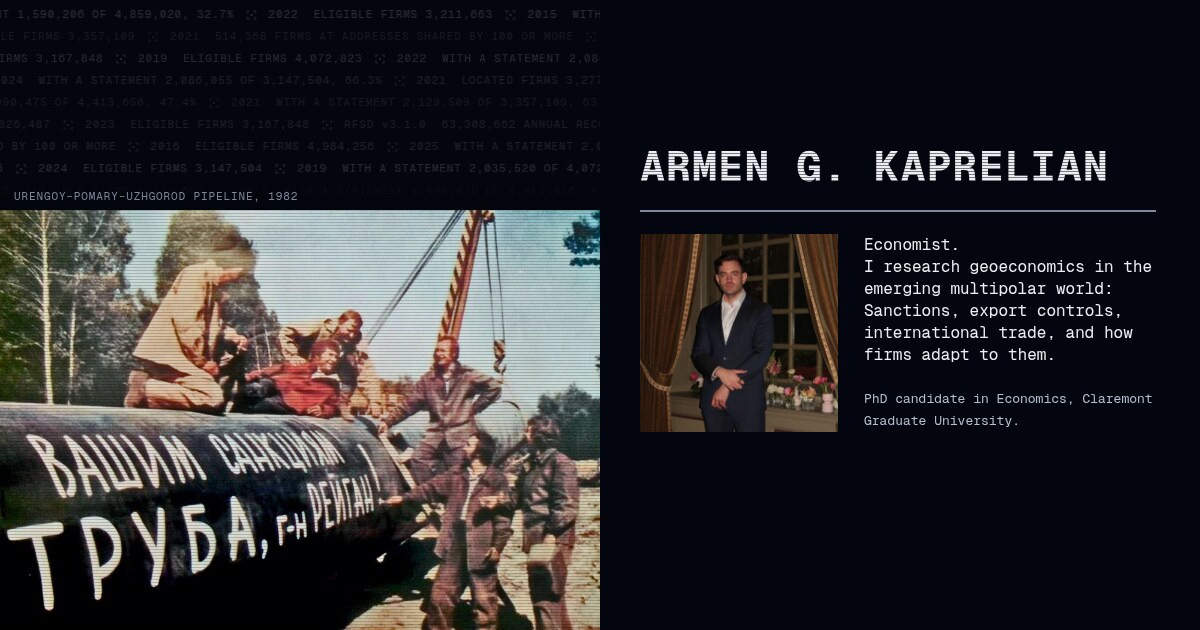
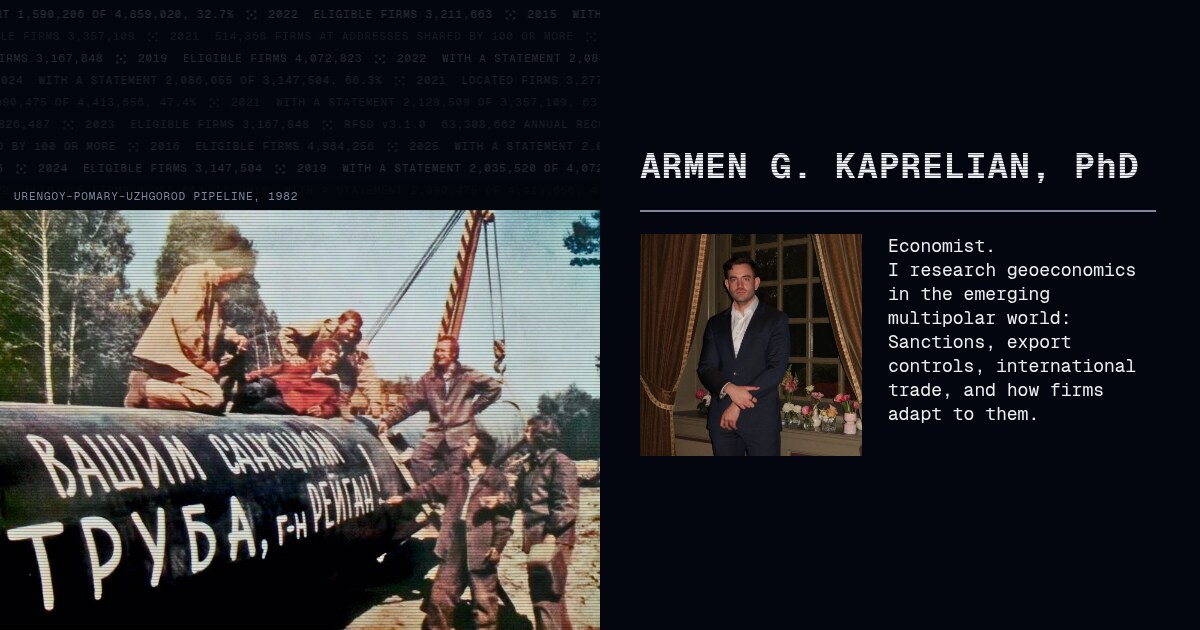
Update homepage and résumé after the dissertation defense

Changed region(s): [[0.5242, 0.3619, 0.9558, 0.7238], [0.5242, 0.2413, 0.9558, 0.3016], [0.925, 0.6333, 0.9558, 0.6635]]

diff --git a/css/site.css b/css/site.css
@@ -102,30 +102,34 @@ hr { border: 0; height: 2px; margin: 0; background: var(--dim); }
    more than the window leaves above the band, the index's row gives it up and its rows compress, so no window overflows and no rule
    reserves a height for a wording (round 33, 2 November 2026; the 330 and 352 px reservations and the small-laptop rule went with it). */
 .content { display: grid; grid-template-rows: 1fr minmax(0, var(--band)); height: 100vh; height: 100dvh; }   /* a definite height, so the band's row can give room to the top block */
-.content .top { --shot: 198px; padding: 26px max(44px, var(--safe-r)) 16px 40px; }   /* 16 px under the bio, so the index's rule never touches it where the band yields; with the 140 px the headshot formula leaves, the band keeps its height on windows that have the room (round 34) */
-@supports (height: 100dvh) and (width: 1cqw) {   /* the headshot's width: the height left above the band, at most half the column's width (the author's pick of 29 October 2026) */
-  .content .top { --shot: clamp(132px, min(100dvh - var(--band) - 140px, (50cqw - 84px) * .5), 572px); }
+/* The headshot uses its native square frame at every width. Above the split-screen
+   navigation it grows into the available height, leaving room for the title and rules. */
+.content .top {
+  --shot: 198px;
+  padding: 26px max(44px, var(--safe-r)) 16px 40px;
 }
-.content h1 { margin: 0 0 22px; font-size: 46px; line-height: 44px; font-weight: 700; letter-spacing: .02em; text-transform: uppercase; }
+@supports (height: 100dvh) and (width: 1cqw) {
+  .content .top { --shot: clamp(132px, min(100dvh - var(--band) - 134px, (50cqw - 84px) * .45), 420px); }
+}
+.content h1 {
+  margin: 0 0 22px;
+  font-size: clamp(30px, 3.5vw - 6px, 46px);
+  line-height: 1;
+  font-weight: 700;
+  letter-spacing: .02em;
+  text-transform: uppercase;
+}
+.content .degree { text-transform: none; }
 .content .top hr { margin: 0 0 20px; }
-.content .id { display: grid; grid-template-columns: var(--shot) minmax(0, 1fr); column-gap: 26px; align-items: start; }
-.content .portrait { display: block; width: var(--shot); height: 100%; min-height: var(--shot); max-height: calc(var(--shot) * 1.6); object-fit: cover; }   /* as tall as the text beside it: square where the text is short, cropped taller where it is long, at most 1.6 times its width (round 33) */
-.content .lede { color: var(--muted); }
-.content .lede p { margin: 0; font-size: 13px; line-height: 22px; text-wrap: pretty; }   /* pretty: no last line of one word where the browser supports it */
-.content .lede .lead { margin-bottom: 22px; font-size: 16px; color: var(--ink); }
-.content .lede { position: relative; top: -4px; }   /* the statement's capitals on the headshot's top edge: a shift of the glyphs only */
-.content .lede .dis { display: block; }   /* the dissertation on its own line, under the degree */
-/* The split layout (round 33, 2 November 2026): the bio's type follows the headshot's width, so the block keeps its proportions on every
-   laptop and desktop window: the statement at 0.062 of the headshot's width (16 px beside a 256 px headshot, 23 px beside 372), the
-   credentials at 0.05, each with its line pitch and the gap between them scaled alike (22 px at the floor). The ratio is set so the bio
-   is a little taller than the headshot is wide, and the headshot's frame follows it, so the two end together. The floors are the sizes
-   of 1 November; the ceilings keep a desktop window readable. */
-@media (min-width: 1200px) and (min-height: 600px) {
-  .content .top { --f: clamp(16px, var(--shot) * .062, 26px); --g: clamp(13px, var(--shot) * .05, 21px); }
-  .content .lede { top: calc(var(--f) * -.25); max-width: max(var(--shot) * 1.4, (258px - var(--shot)) * 10000); }   /* the measure: 1.4 headshots (37 characters) while the type follows the headshot, which keeps the bio as tall as the headshot is wide on a wide column; below a 258 px headshot the type is at its floor and the bio takes the column (the second term is then thousands of px) */
-  .content .lede p { font-size: var(--g); line-height: 1.6923; }
-  .content .lede .lead { margin-bottom: 1.375em; font-size: var(--f); line-height: 1.375; }
+.content .id { display: grid; grid-template-columns: var(--shot) minmax(0, 1fr); gap: 26px; align-items: start; }
+.content .portrait { display: block; width: 100%; height: auto; aspect-ratio: 1; }
+.content .lede {
+  font-size: clamp(16px, var(--shot) * .082, 25px);
+  line-height: 1.375;
+  margin-top: -.23em;
 }
+.content .lede p { margin: 0; max-width: 31ch; text-wrap: pretty; }
+.content .lede .role { display: block; margin-bottom: .42em; }
 .nb { white-space: nowrap; }
 
 /* The index: seven rows, each a number, the page and a dim note of what it opens; the whole row is the link. */
@@ -182,13 +186,13 @@ hr { border: 0; height: 2px; margin: 0; background: var(--dim); }
 @media (max-width: 1199px), (max-height: 599px) {
   .home { display: flex; flex-direction: column; }
   .content { order: -1; display: block; height: auto; max-width: 820px; }
-  .content .top { --shot: 160px; padding: 14px max(16px, var(--safe-r)) 0 max(16px, var(--safe-l)); }
-  @supports (width: round(down, 10px, 1px)) and (width: 1cqw) { .content .top { --shot: clamp(110px, round(down, (min(100cqw, 820px) - 32px) * .43, 2px), 286px); } }   /* 0.43 of the column, at most 286 px on tablets */
-  .content h1 { margin-bottom: 14px; font-size: 30px; }
-  .content .id { column-gap: 16px; }
-  .content .lede { display: contents; }
-  .content .lede .lead { grid-column: 2; grid-row: 1; margin: 0; font-size: 15px; position: relative; top: -5px; }   /* the capitals on the headshot's top edge */
-  .content .lede .lead + p { grid-column: 1 / -1; grid-row: 2; margin-top: 22px; }
+  .content .top {
+    --shot: clamp(104px, 40vw - 8px, 240px);
+    padding: 14px max(16px, var(--safe-r)) 0 max(16px, var(--safe-l));
+  }
+  .content h1 { margin-bottom: 14px; font-size: clamp(20px, 6.85vw - 2px, 30px); line-height: 1.15; }
+  .content .id { gap: clamp(14px, 3.5vw, 26px); }
+  .content .lede { font-size: clamp(15px, var(--shot) * .09, 22px); }
   .index { grid-auto-rows: 60px; padding: 22px max(16px, var(--safe-r)) 30px max(16px, var(--safe-l)); }
   .index a { grid-template-columns: auto minmax(0, 1fr); align-content: center; }
   .index .n { grid-row: 1; font-size: 18px; }   /* on the page name's line, at its size */
@@ -206,26 +210,15 @@ hr { border: 0; height: 2px; margin: 0; background: var(--dim); }
   .page { padding: 14px max(16px, var(--safe-r)) max(40px, calc(var(--safe-b) + 24px)) max(16px, var(--safe-l)); }
   .page h1 { font-size: 30px; }
   .film .chapters button { padding: 5px 0; }   /* taller rows for a finger */
-  /* The home page's top block as a card (round 33, the author's request of 2 November 2026, after a phone that scales text by about 1.13 ran the
-     statement's last line under the headshot, and his rule against dead space). Beside the headshot sit the lines that identify him, "Economist.",
-     the degree and the dissertation, and the headshot is as tall as they are: its box takes the rows they fill and crops the square picture to
-     a taller frame (object-fit: cover, at most 1.6 times its width; beyond that, at a text scale over about 1.4, the lines run on below it),
-     so no line falls under the picture and no space stands beside it, at any text scale. The statement runs below at the column's full width,
-     where no line is short. The four pieces are spans in the two paragraphs (display: contents), placed by the grid; the laptop and tablet
-     layouts read the same markup in its own order. The headshot takes 0.40 of the column. The name takes 7 percent of the screen's width, one
-     line at 360 px and up unless the text is scaled more than a sixth. (The runaround of 1 November 2026 is retired.) */
-  .content .top { --shot: 150px; }
-  @supports (width: round(down, 10px, 1px)) and (width: 1cqw) { .content .top { --shot: clamp(110px, round(down, (min(100cqw, 820px) - 32px) * .40, 2px), 286px); } }
-  .content h1 { font-size: clamp(22px, 7vw, 30px); line-height: 1.15; }
-  .content .id { grid-template-rows: auto auto 1fr auto; }   /* the headshot's rows: "Economist.", the degree, the dissertation; the fr row takes any height left */
-  .content .lede p { display: contents; }
-  .content .lede br { display: none; }
-  .content .portrait { grid-column: 1; grid-row: 1 / 4; align-self: start; height: 100%; min-height: var(--shot); max-height: calc(var(--shot) * 1.6); object-fit: cover; }
-  .content .lede .role, .content .lede .deg, .content .lede .dis { grid-column: 2; position: relative; top: -5px; }   /* the capitals on the headshot's top edge */
-  .content .lede .role { grid-row: 1; font-size: 15px; color: var(--ink); }
-  .content .lede .deg { grid-row: 2; font-size: 13px; color: var(--muted); }
-  .content .lede .dis { grid-row: 3; font-size: 13px; color: var(--muted); }
-  .content .lede .what { grid-column: 1 / -1; grid-row: 4; margin-top: 22px; font-size: 15px; color: var(--ink); }
 }
 
+/* On narrow phones the list of research interests gets the full line below the portrait. */
+@media (max-width: 425px) {
+  .content .top { --shot: clamp(104px, 43vw - 10px, 160px); }
+  .content .id { row-gap: 11px; }
+  .content .lede, .content .lead { display: contents; }
+  .content .lead .intro { align-self: center; font-size: 16px; line-height: 1.375; }
+  .content .lead .topics { grid-column: 1 / -1; font-size: 16px; line-height: 1.375; }
+  .content .lead .intro-break { display: none; }
+}
 @media (prefers-reduced-motion: reduce) { * { transition: none !important; animation: none !important; } }

diff --git a/index.html b/index.html
@@ -4,14 +4,14 @@
 <meta charset="utf-8">
 <meta name="viewport" content="width=device-width, initial-scale=1, viewport-fit=cover">
 <title>⌜Armen Kaprelian⌟</title>
-<meta name="description" content="Armen G. Kaprelian, economist: sanctions, international trade and Russian firms. PhD candidate, Claremont Graduate University.">
+<meta name="description" content="Armen G. Kaprelian, PhD, researches geoeconomics, sanctions, export controls, international trade, and how firms adapt to them.">
 <link rel="icon" href="favicon.svg" type="image/svg+xml">
 <link rel="icon" href="favicon-32.png" sizes="32x32" type="image/png">
 <link rel="apple-touch-icon" href="apple-touch-icon.png">
 <link rel="preload" href="fonts/GeistMono-Variable.woff2" as="font" type="font/woff2" crossorigin>
 <meta name="theme-color" content="#03060E">
 <meta property="og:type" content="website"><meta property="og:site_name" content="Armen G. Kaprelian">
-<meta property="og:title" content="Armen G. Kaprelian"><meta property="og:description" content="Armen G. Kaprelian, economist: sanctions, international trade and Russian firms. PhD candidate, Claremont Graduate University.">
+<meta property="og:title" content="Armen G. Kaprelian, PhD"><meta property="og:description" content="Armen G. Kaprelian, PhD, researches geoeconomics, sanctions, export controls, international trade, and how firms adapt to them.">
 <meta property="og:url" content="https://armenkaprelian.com/"><meta property="og:image" content="https://armenkaprelian.com/img/card.jpg">
 <meta property="og:image:width" content="1200"><meta property="og:image:height" content="630"><meta property="og:image:alt" content="Armen G. Kaprelian: the name, the headshot and the bio beside the 1982 pipeline photo and the data stream of the home page.">
 <meta name="twitter:card" content="summary_large_image">
@@ -28,7 +28,7 @@
       <img class="pv" data-k="atlas" data-src="img/preview-atlas.webp" alt="" aria-hidden="true">
       <img class="pv" data-k="film" data-src="img/preview-film.webp" alt="" aria-hidden="true">
       <div class="pv card" data-k="github" aria-hidden="true"><div class="k">GITHUB</div><div class="big"><span class="striped">github.com/<br>ArmenKaprelian</span></div></div>
-      <div class="pv card" data-k="research" aria-hidden="true"><div class="k">DISSERTATION</div><div class="big"><span class="striped">Opacity and Adaptation under Sanctions</span></div><div class="sub">Geoeconomics in the Universe of Russian Firms. Claremont Graduate University, expected 2026.</div></div>
+      <div class="pv card" data-k="research" aria-hidden="true"><div class="k">DISSERTATION</div><div class="big"><span class="striped">Opacity and Adaptation under Sanctions</span></div><div class="sub">Geoeconomics in the Universe of Russian Firms. Claremont Graduate University, 2026.</div></div>
       <div class="pv card" data-k="writing" aria-hidden="true"><div class="k">WRITING</div><div class="big"><span class="striped">substack.com/<br>@armenkaprelian</span></div></div>
       <div class="pv card" data-k="contact" aria-hidden="true"><div class="k">CONTACT</div><div class="big"><span class="striped">armenkaprelian<br>@gmail.com</span></div><div class="sub">LinkedIn, GitHub, X.</div></div>
       <div class="lines" aria-hidden="true"></div>
@@ -45,13 +45,12 @@
 
   <div class="content">
     <header class="top">
-      <h1><span class="striped">Armen G. Kaprelian</span></h1>
+      <h1><span class="striped">Armen G. Kaprelian, <span class="degree">PhD</span></span></h1>
       <hr>
       <div class="id">
         <img class="portrait" src="img/headshot.jpg" width="860" height="860" alt="Armen G. Kaprelian">
         <div class="lede">
-          <p class="lead"><span class="role">Economist. </span><br><span class="what">I research geoeconomics in the emerging multipolar world: <br>Sanctions, <span class="nb">export controls,</span> international trade, and how firms adapt to them.</span></p>
-          <p><span class="deg">PhD candidate in Economics, Claremont Graduate University. </span><span class="dis">Dissertation: Opacity and Adaptation under Sanctions. Geoeconomics in the Universe of Russian Firms.</span></p>
+          <p class="lead"><span class="intro"><span class="role">Economist.</span> I research geoeconomics in the emerging multipolar world:</span> <br class="intro-break"><span class="topics">Sanctions, <span class="nb">export controls,</span> international trade, and how firms adapt to them.</span></p>
         </div>
       </div>
     </header>

diff --git a/tools/card.html b/tools/card.html
@@ -17,13 +17,13 @@
   .visual { height: 630px; }
   .content { min-height: 0; height: 630px; grid-template-rows: 210px 420px; }
   .content .top { display: flex; flex-direction: column; justify-content: flex-end; padding: 0 44px 0 40px; }
-  .content h1 { margin: 0 0 22px; font-size: 42px; }
+  .content h1 { margin: 0 0 22px; font-size: 35px; line-height: 44px; }
+  .content h1 .credential { text-transform: none; }
   .band { padding: 0 44px 0 40px; }
   .band hr { margin: 0 0 22px; }
-  .band .id { display: grid; grid-template-columns: 198px minmax(0, 1fr); column-gap: 26px; align-items: start; }
-  .band .portrait { display: block; width: 198px; height: 198px; }
-  .band .lead { margin: 0 0 22px; font-size: 16px; line-height: 22px; color: var(--ink); }
-  .band .sub { margin: 0; font-size: 13px; line-height: 22px; color: var(--muted); max-width: 46ch; }
+  .band .id { display: grid; grid-template-columns: 222px minmax(0, 1fr); column-gap: 26px; align-items: start; }
+  .band .portrait { display: block; width: 222px; height: 222px; }
+  .band .lead { margin: 0; font-size: 18px; line-height: 24px; color: var(--ink); }
 </style>
 </head>
 <body>
@@ -37,14 +37,13 @@
     </figure>
   </div>
   <div class="content">
-    <header class="top"><h1><span class="striped">Armen G. Kaprelian</span></h1></header>
+    <header class="top"><h1><span class="striped">Armen G. Kaprelian, <span class="credential">PhD</span></span></h1></header>
     <div class="band">
       <hr>
       <div class="id">
         <img class="portrait" src="../img/headshot.jpg" width="860" height="860" alt="">
         <div>
           <p class="lead">Economist.<br>I research geoeconomics in the emerging multipolar world:<br>Sanctions, export controls, international trade, and how firms adapt to them.</p>
-          <p class="sub">PhD candidate in Economics, Claremont Graduate University.</p>
         </div>
       </div>
     </div>
